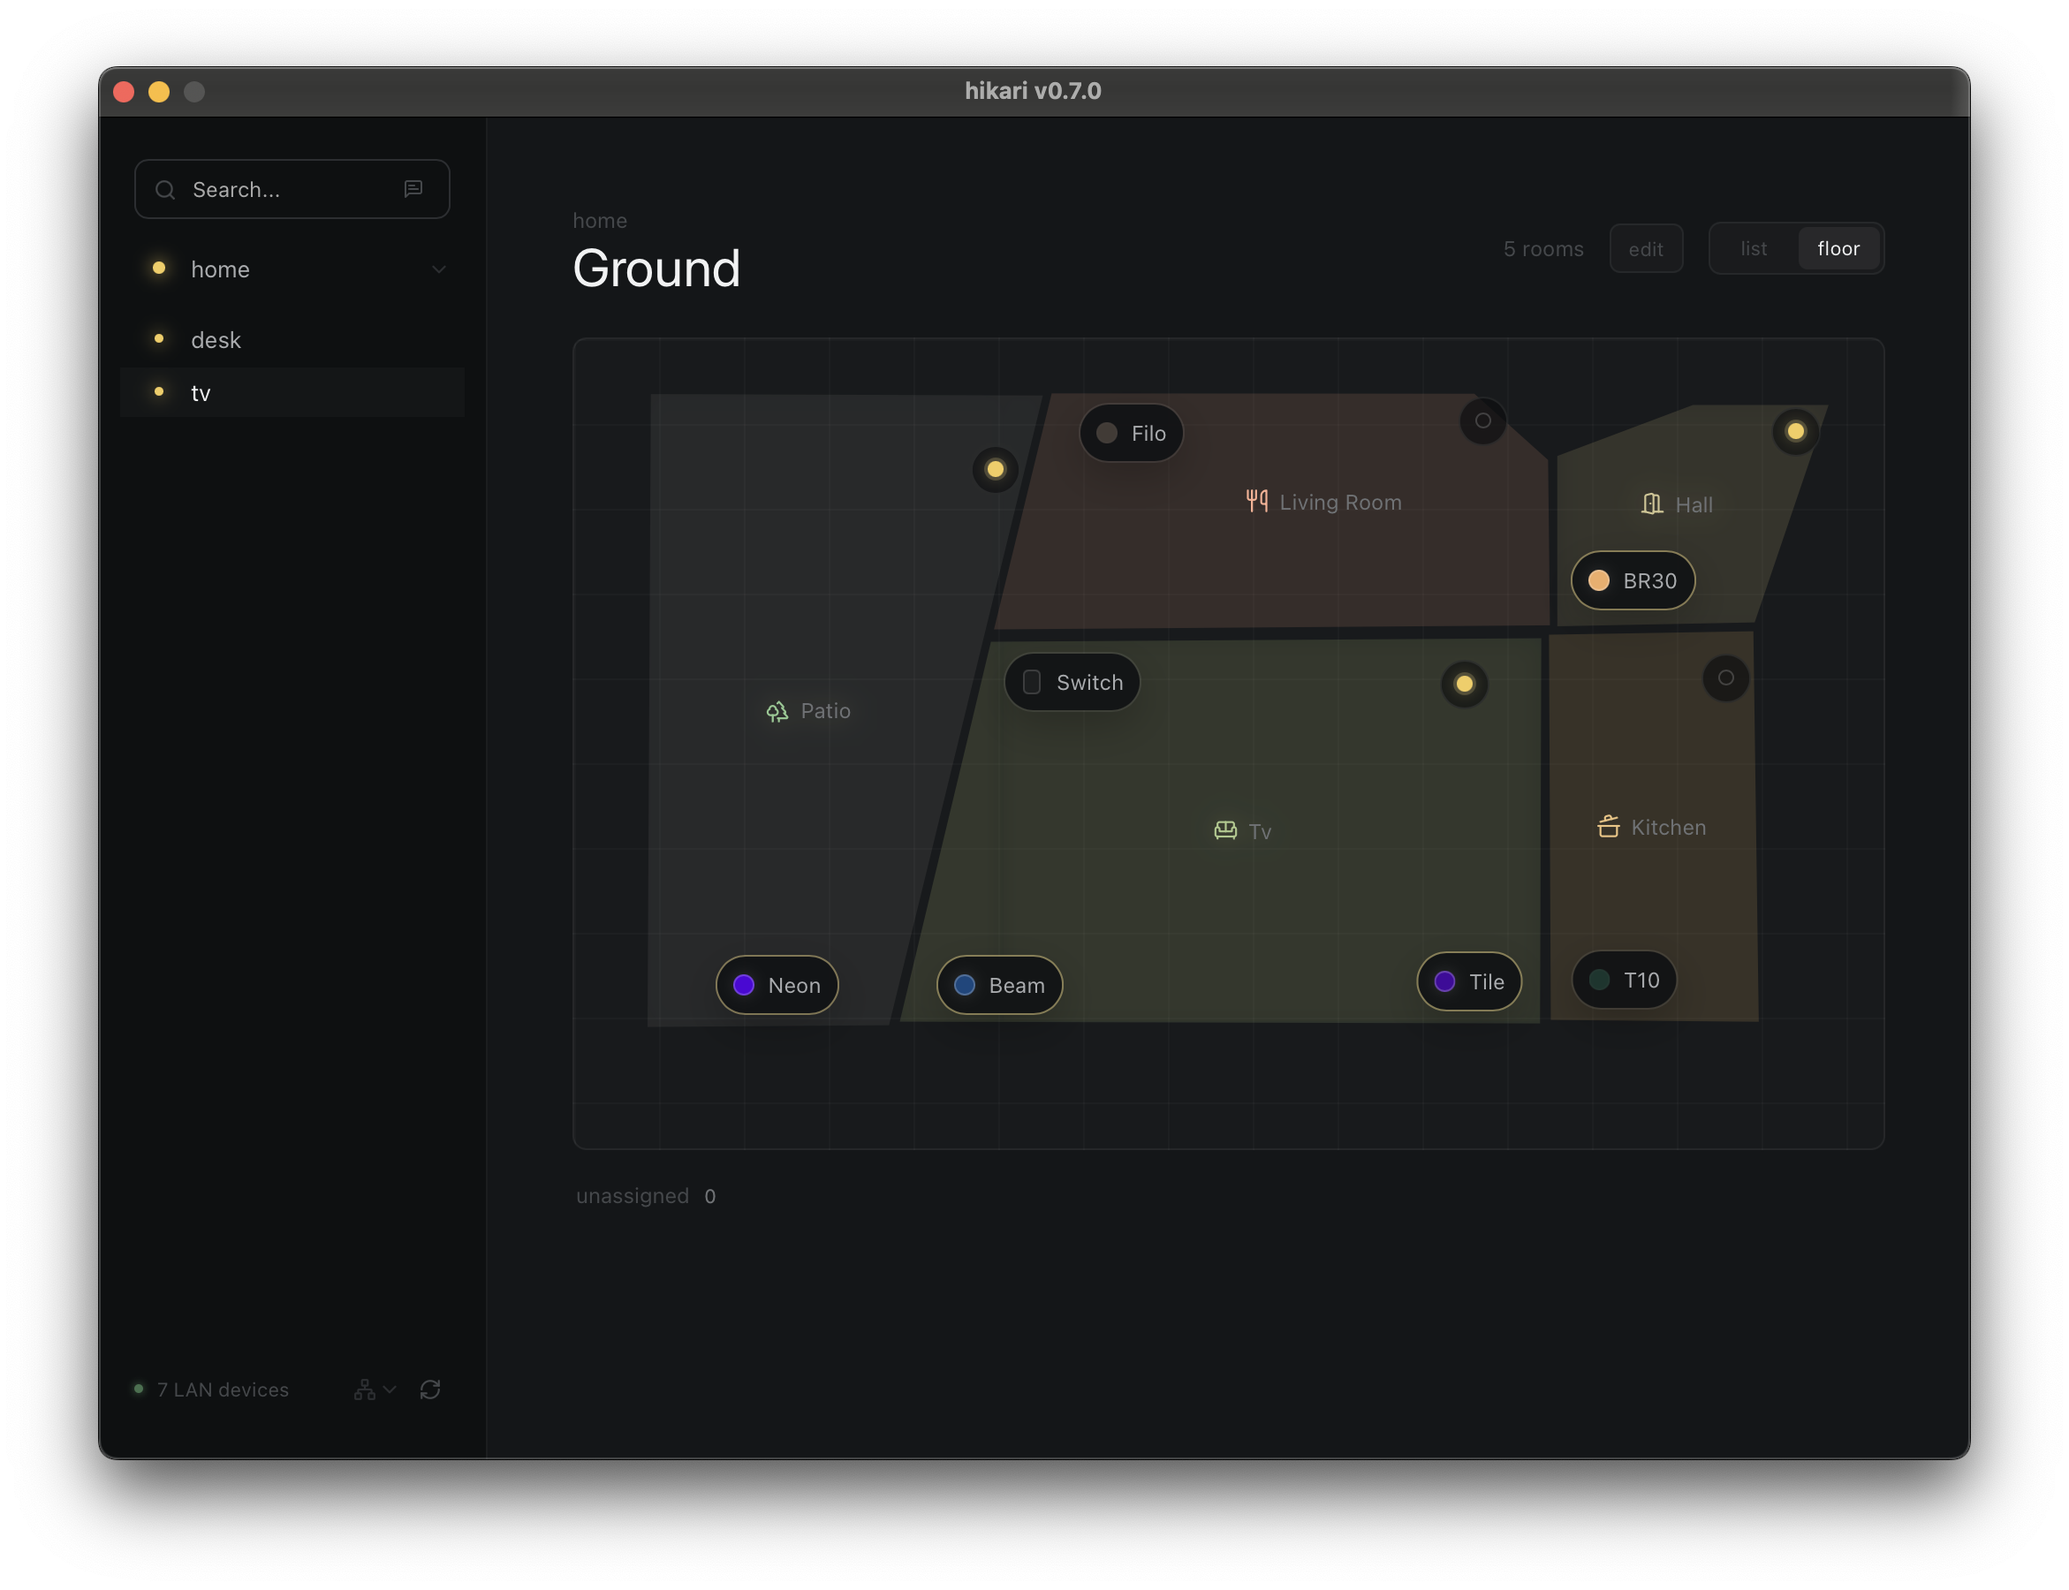
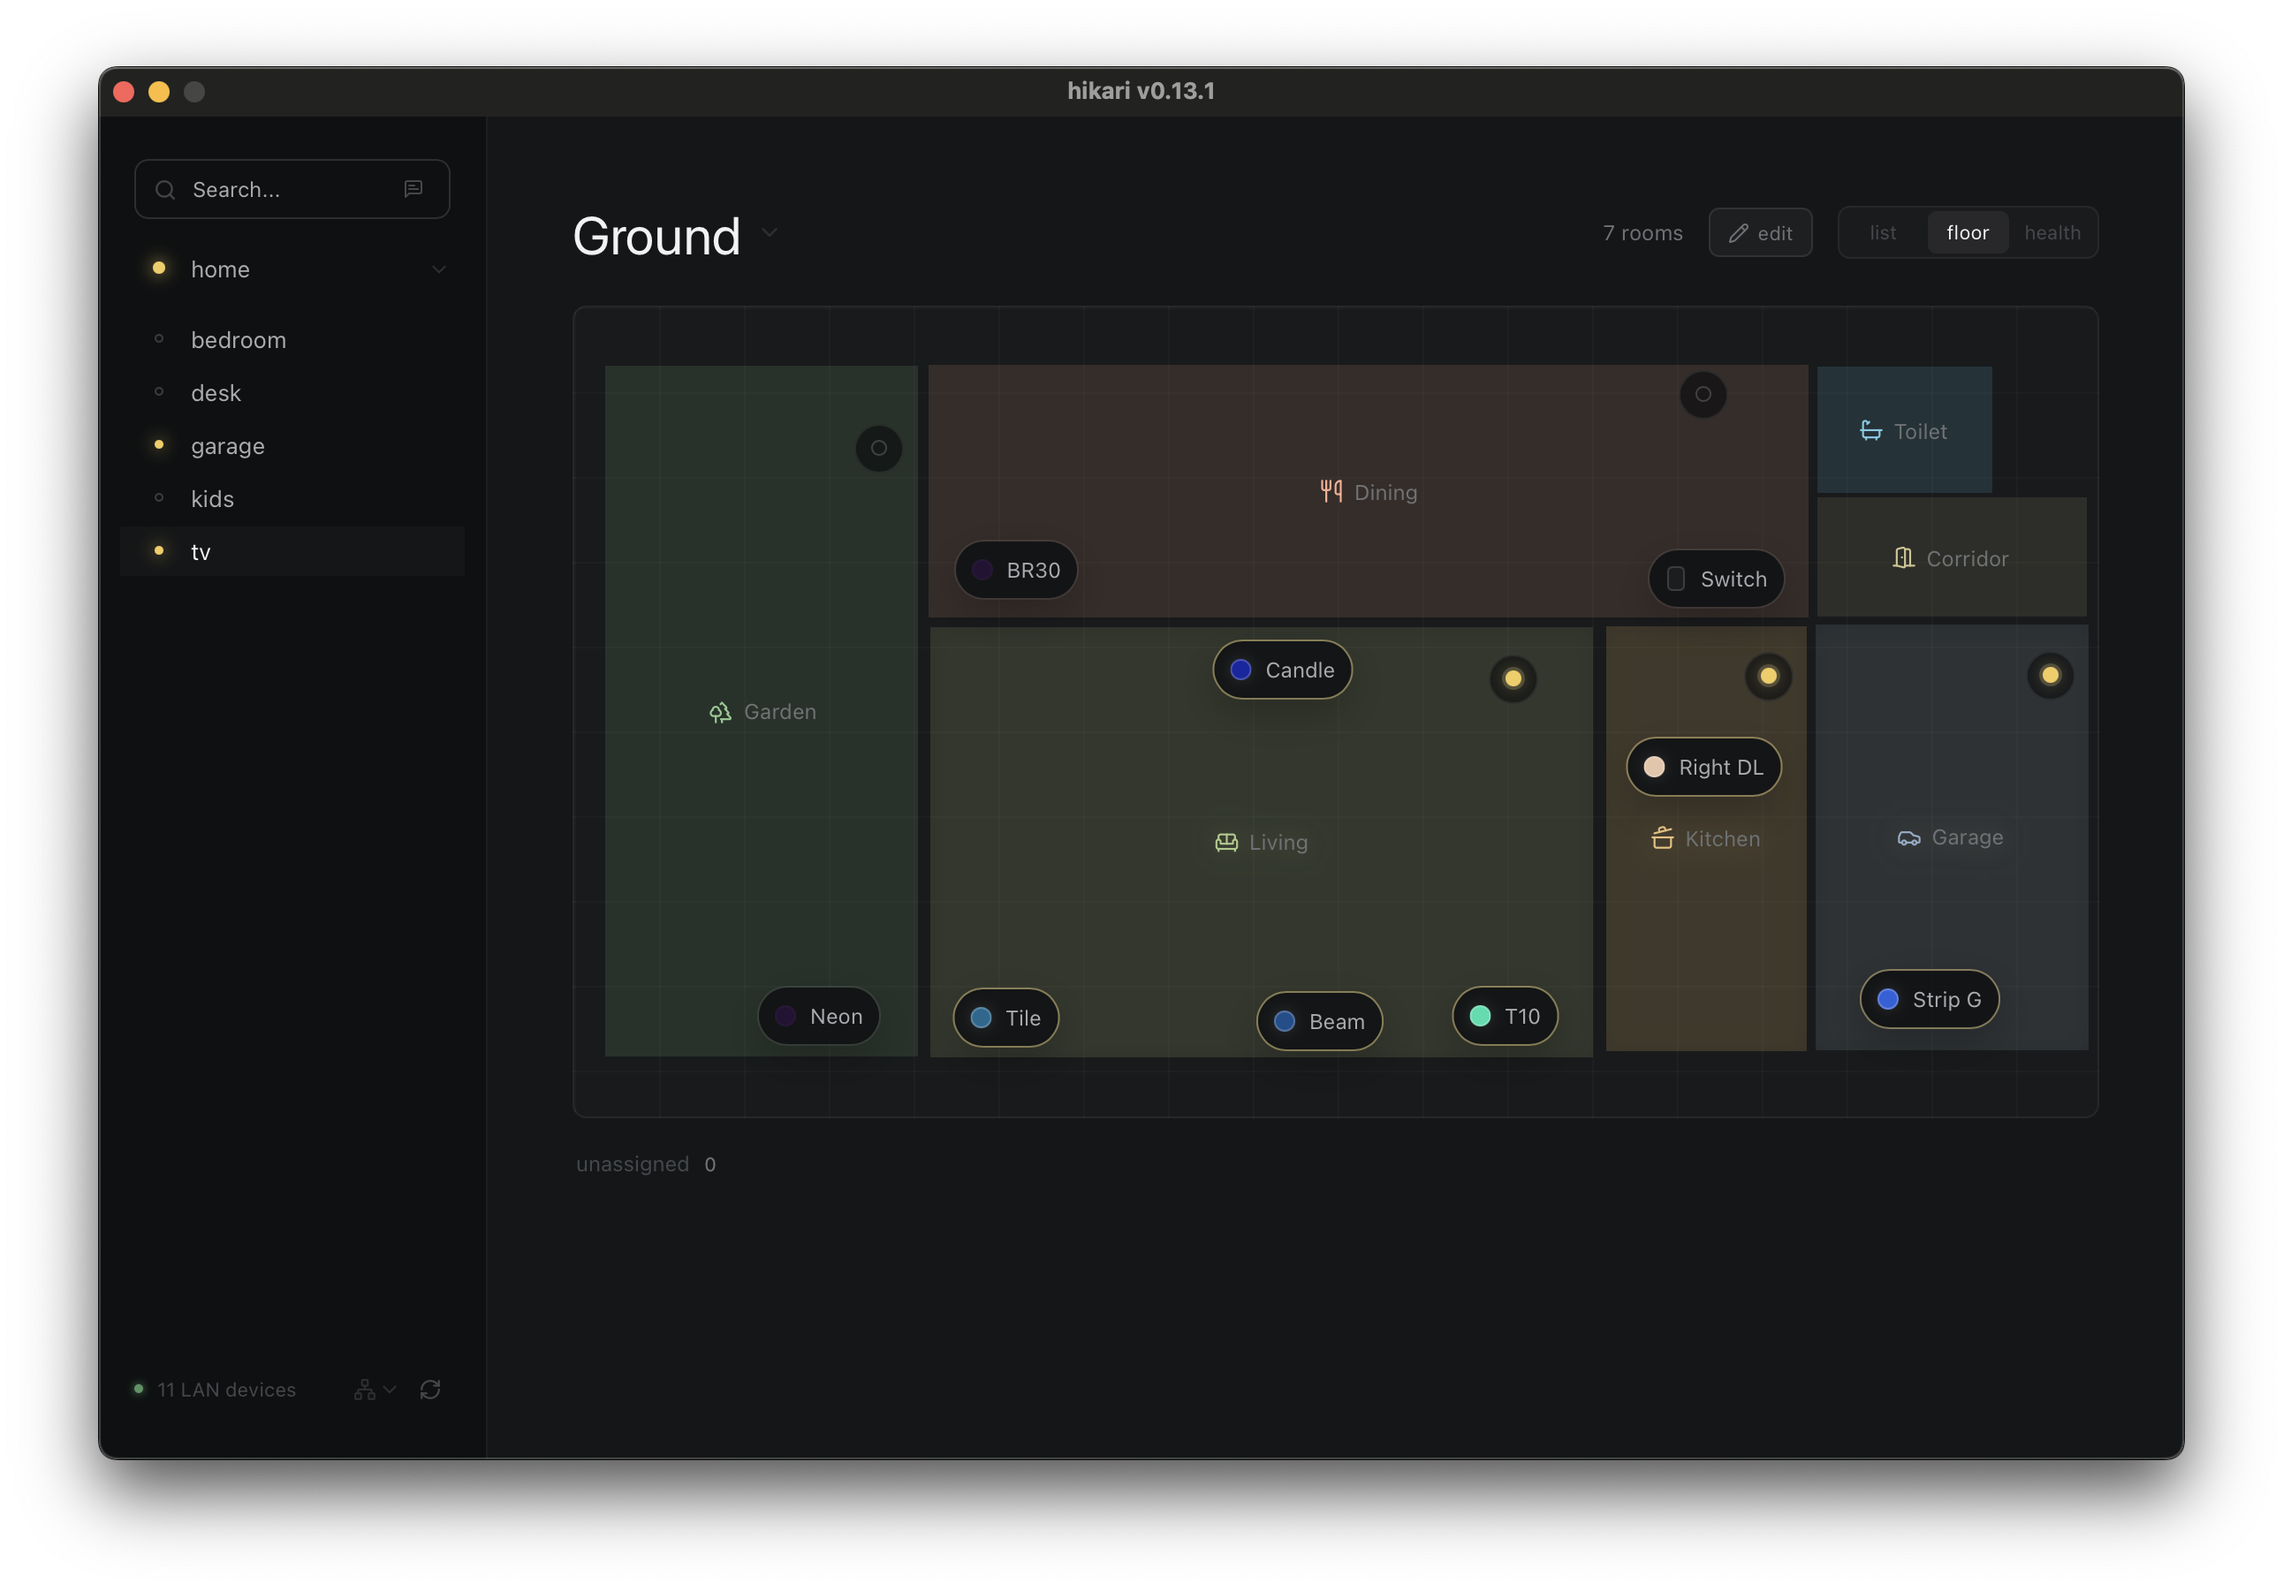
[docs] refresh screenshots and document themes

diff --git a/README.md b/README.md
@@ -14,9 +14,11 @@ The app is in active development, but it is ready to try with real LAN devices. 
 - Device and firmware effects for supported lights. Breathe pulses the current colour pattern between 10% and 100% of its original brightness (black pixels stay black). Color Cycle applies uniform palette transitions at the current device brightness. Both support single-zone, multizone and matrix lights; speed is the duration of a full cycle, defaulting to 4s and 8s respectively.
 - Local previews of Hikari effects without changing lights, using the eye control beside an effect. Previews show a bounded clip of settled frames, not firmware effects or device transition timing.
 - Every effect has speed settings behind a cog. Snake/Worm, Wave, Ring, Comet, Sparkle and Scanner also expose appearance controls such as trail length, thickness and relative brightness. Flow offers forward/reverse direction and a matrix-only axis selector; Frames offers inward/outward patterns. Adjustments update an open local preview only; Apply starts/restarts the effect with all selected settings. Successfully started/applied settings are remembered per device and effect. Reset returns the controls to Hikari defaults; Apply or Start saves that choice. Existing palette and restore behavior is retained.
+- Built-in and custom color themes for devices, groups, and rooms, with local previews, a palette editor, brightness preservation, and repeat-click application variations.
 - Floor-plan view with multiple floors, editable rooms, draggable light placement, room power controls, and local layout persistence.
 - Sensaa presence sensor discovery, room assignment, occupancy state, and delayed room lighting.
-- Periodic refresh with pending-state reconciliation to avoid stale device updates fighting recent UI changes.
+- Device health view with signal quality, last-response age, uptime, and on-demand ping measurements.
+- Subscription-driven device updates with recovery snapshots and pending-state reconciliation to avoid stale observations fighting recent UI changes.
 - Optional local text commands through the rule-only `lifx-command-engine` sidecar.
 
 ## Download
@@ -46,17 +48,30 @@ Run the command from the folder containing `hikari.app`, or replace `hikari.app`
 
 ![hikari group view with multiple LIFX devices](docs/group-list.png)
 
-### Matrix Editor
-
-![hikari matrix editor with a pending gradient](docs/matrix-editor.png)
-
 ### Floor Plan
 
 ![hikari floor plan with shaped rooms and active lights](docs/floor-plan.png)
 
+### Themes
+
+![hikari built-in and custom themes with a local matrix preview](docs/themes.png)
+
+<details>
+<summary>More Views</summary>
+
+### Matrix Editor
+
+![hikari matrix editor with a pending gradient](docs/matrix-editor.png)
+
 ### Presence Lighting
 
 ![hikari room with Sensaa occupancy and presence lighting controls](docs/presence-lighting.png)
+
+### Device Health
+
+![hikari device health view with signal quality, uptime, and ping results](docs/device-health.png)
+
+</details>
 
 ## Shortcuts
 
@@ -86,6 +101,16 @@ Hikari discovers [Sensaa](https://github.com/alessio-palumbo/sensaa) nodes over 
 Presence lighting turns the room's currently assigned lights on when any assigned sensor reports presence. When every assigned online sensor reports no presence, Hikari waits for the configured delay before either turning the room off or dimming its currently-on lights. Returning presence conditionally restores brightness that Hikari still owns; subsequent manual changes take precedence. Re-entry during the delay cancels the pending action, and a disconnected sensor is treated as unknown rather than as evidence that the room is empty.
 
 Assignments use the stable Sensaa node ID and are stored with the local floor-plan profile. IP addresses and observations are not persisted. Restarting Hikari or power-cycling a node retains the assignment and reconnects it after discovery finds the same node ID.
+
+## Themes
+
+Open the `themes` inspector tab for a light, group, or floor-plan room. Clicking a theme applies it directly, preserving each light's existing brightness, including individual zone/pixel brightness. Repeated clicks cycle palette assignments for single-zone lights and strips, and vary smooth spatial color placement on matrices.
+
+The eye button below the list opens a local preview without changing the lights. While preview is open, theme clicks update the preview only; the check icon applies the displayed variation. Closing preview returns to direct application. Theme application turns targeted lights on and stops their running effects. Exit matrix/multizone layout editing before applying a theme.
+
+Use the plus icon to create a theme, or duplicate an existing palette. User themes can be renamed, edited, and deleted; built-ins remain unchanged. The editor supports color-wheel and white-temperature selection, adding/removing colors, and changing their order. Save stores the palette without applying it; Cancel discards unsaved edits.
+
+User themes are stored atomically in `themes.json` alongside the floor plans and effect settings in the operating system's user configuration directory. They survive application updates and are shared between development and installed builds. Target selections, application variations, and device state are not saved with a theme.
 
 ## Device Health
 
